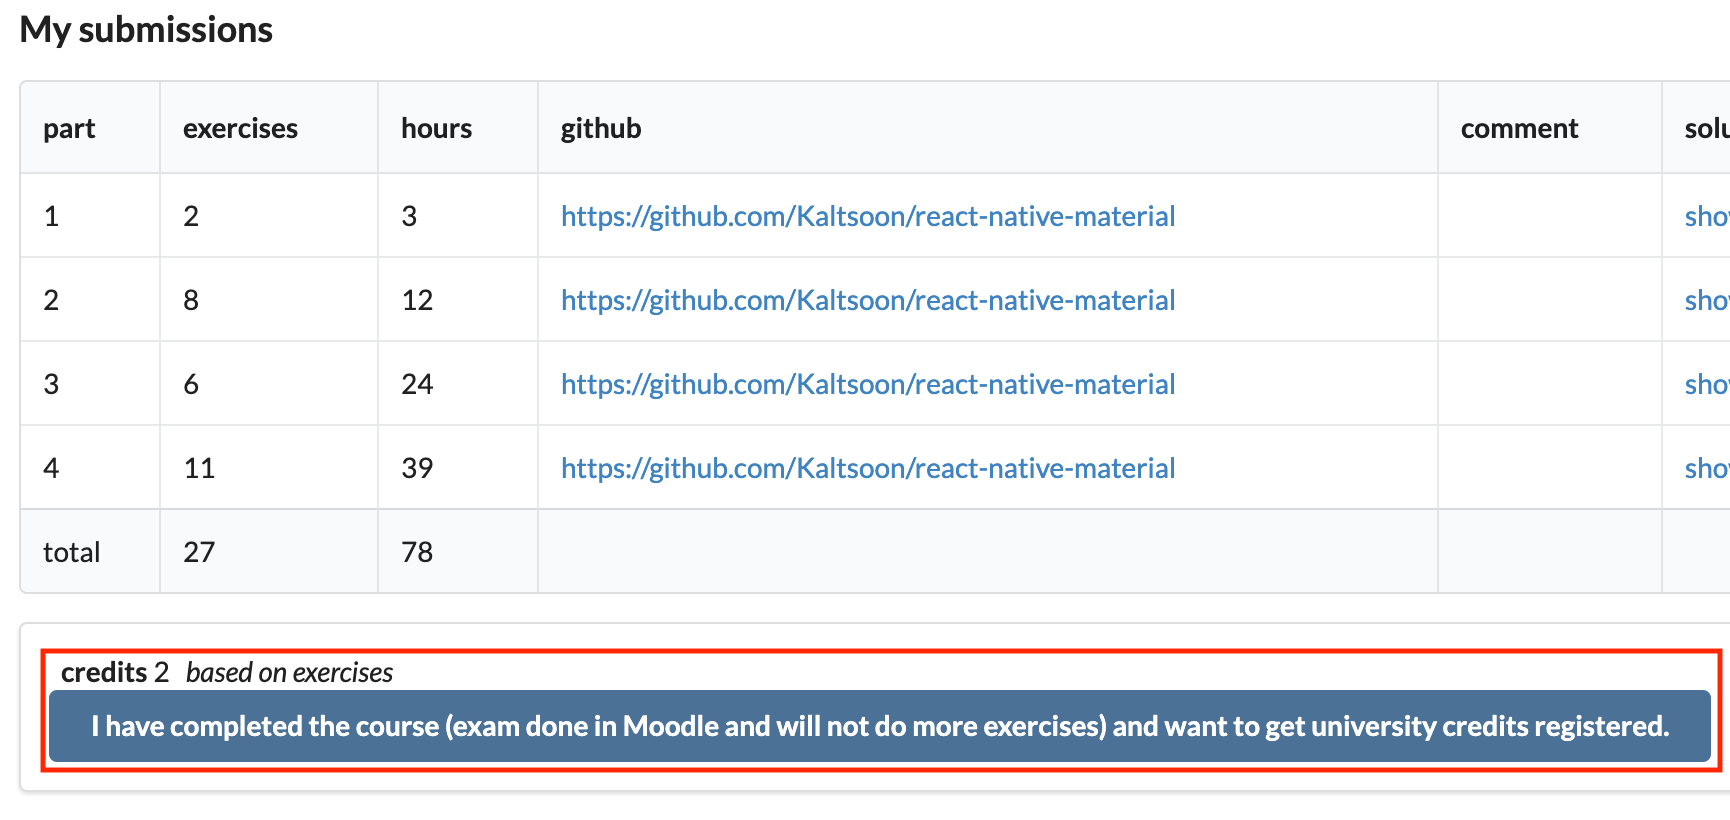
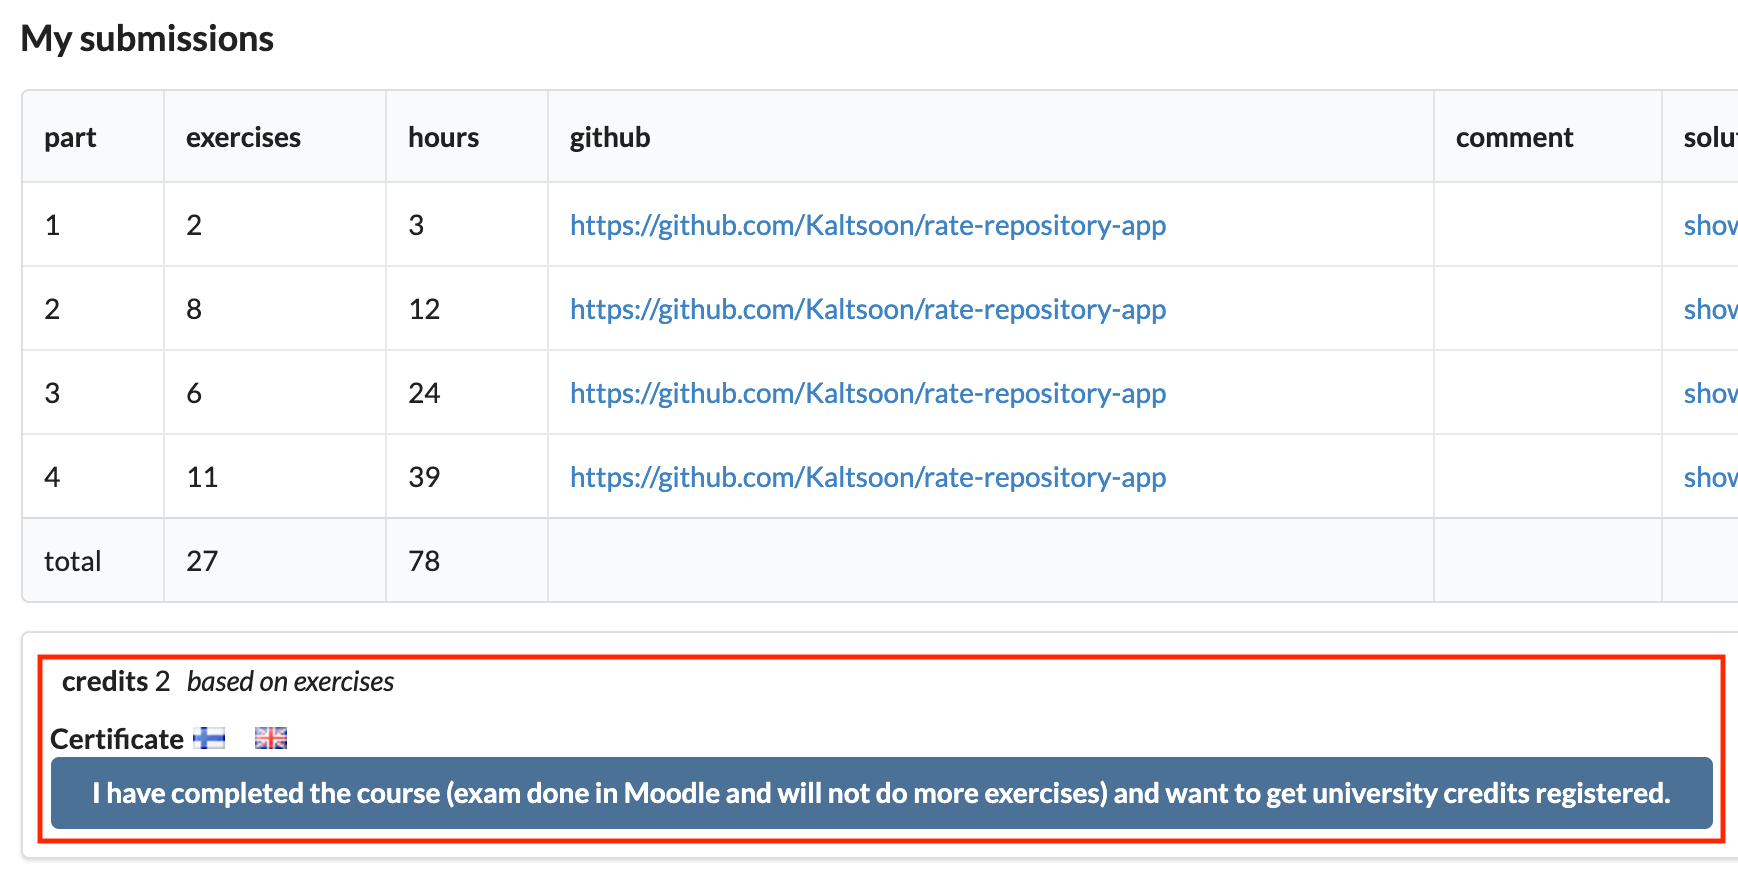
react native certificate info

diff --git a/gatsby-config.js b/gatsby-config.js
@@ -24,7 +24,7 @@ const createSearchConfig = (indexName, language) => {
       index: ['body'],
       store: ['id', 'part', 'letter', 'lang'],
       normalizer: ({ data }) =>
-        data.allMarkdownRemark.nodes.map((node) => ({
+        data.allMarkdownRemark.nodes.map(node => ({
           id: node.id,
           part: node.frontmatter.part,
           letter: node.frontmatter.letter,

diff --git a/src/content/10/en/part10a.md b/src/content/10/en/part10a.md
@@ -41,6 +41,8 @@ Once you have completed the exercises and want to get the credits, let us know t
 
 Note that the "exam done in Moodle" note refers to the [Full Stack Open course's exam](https://fullstackopen.com/en/part0/general_info#sign-up-for-the-exam), which <i>has to be completed</i> before you can earn credits from this part.
 
+You can download the certificate for completing this part by clicking one of the flag icons. The flag icon corresponds to the certificate's language. Note that you must have completed at least one credit worth of exercises before you can download the certificate.
+
 ### Initializing the application
 
 To get started with our application we need to set up our development environment. We have learned from previous parts that there are useful tools for setting up React applications quickly such as Create React App. Luckily React Native has these kinds of tools as well.
